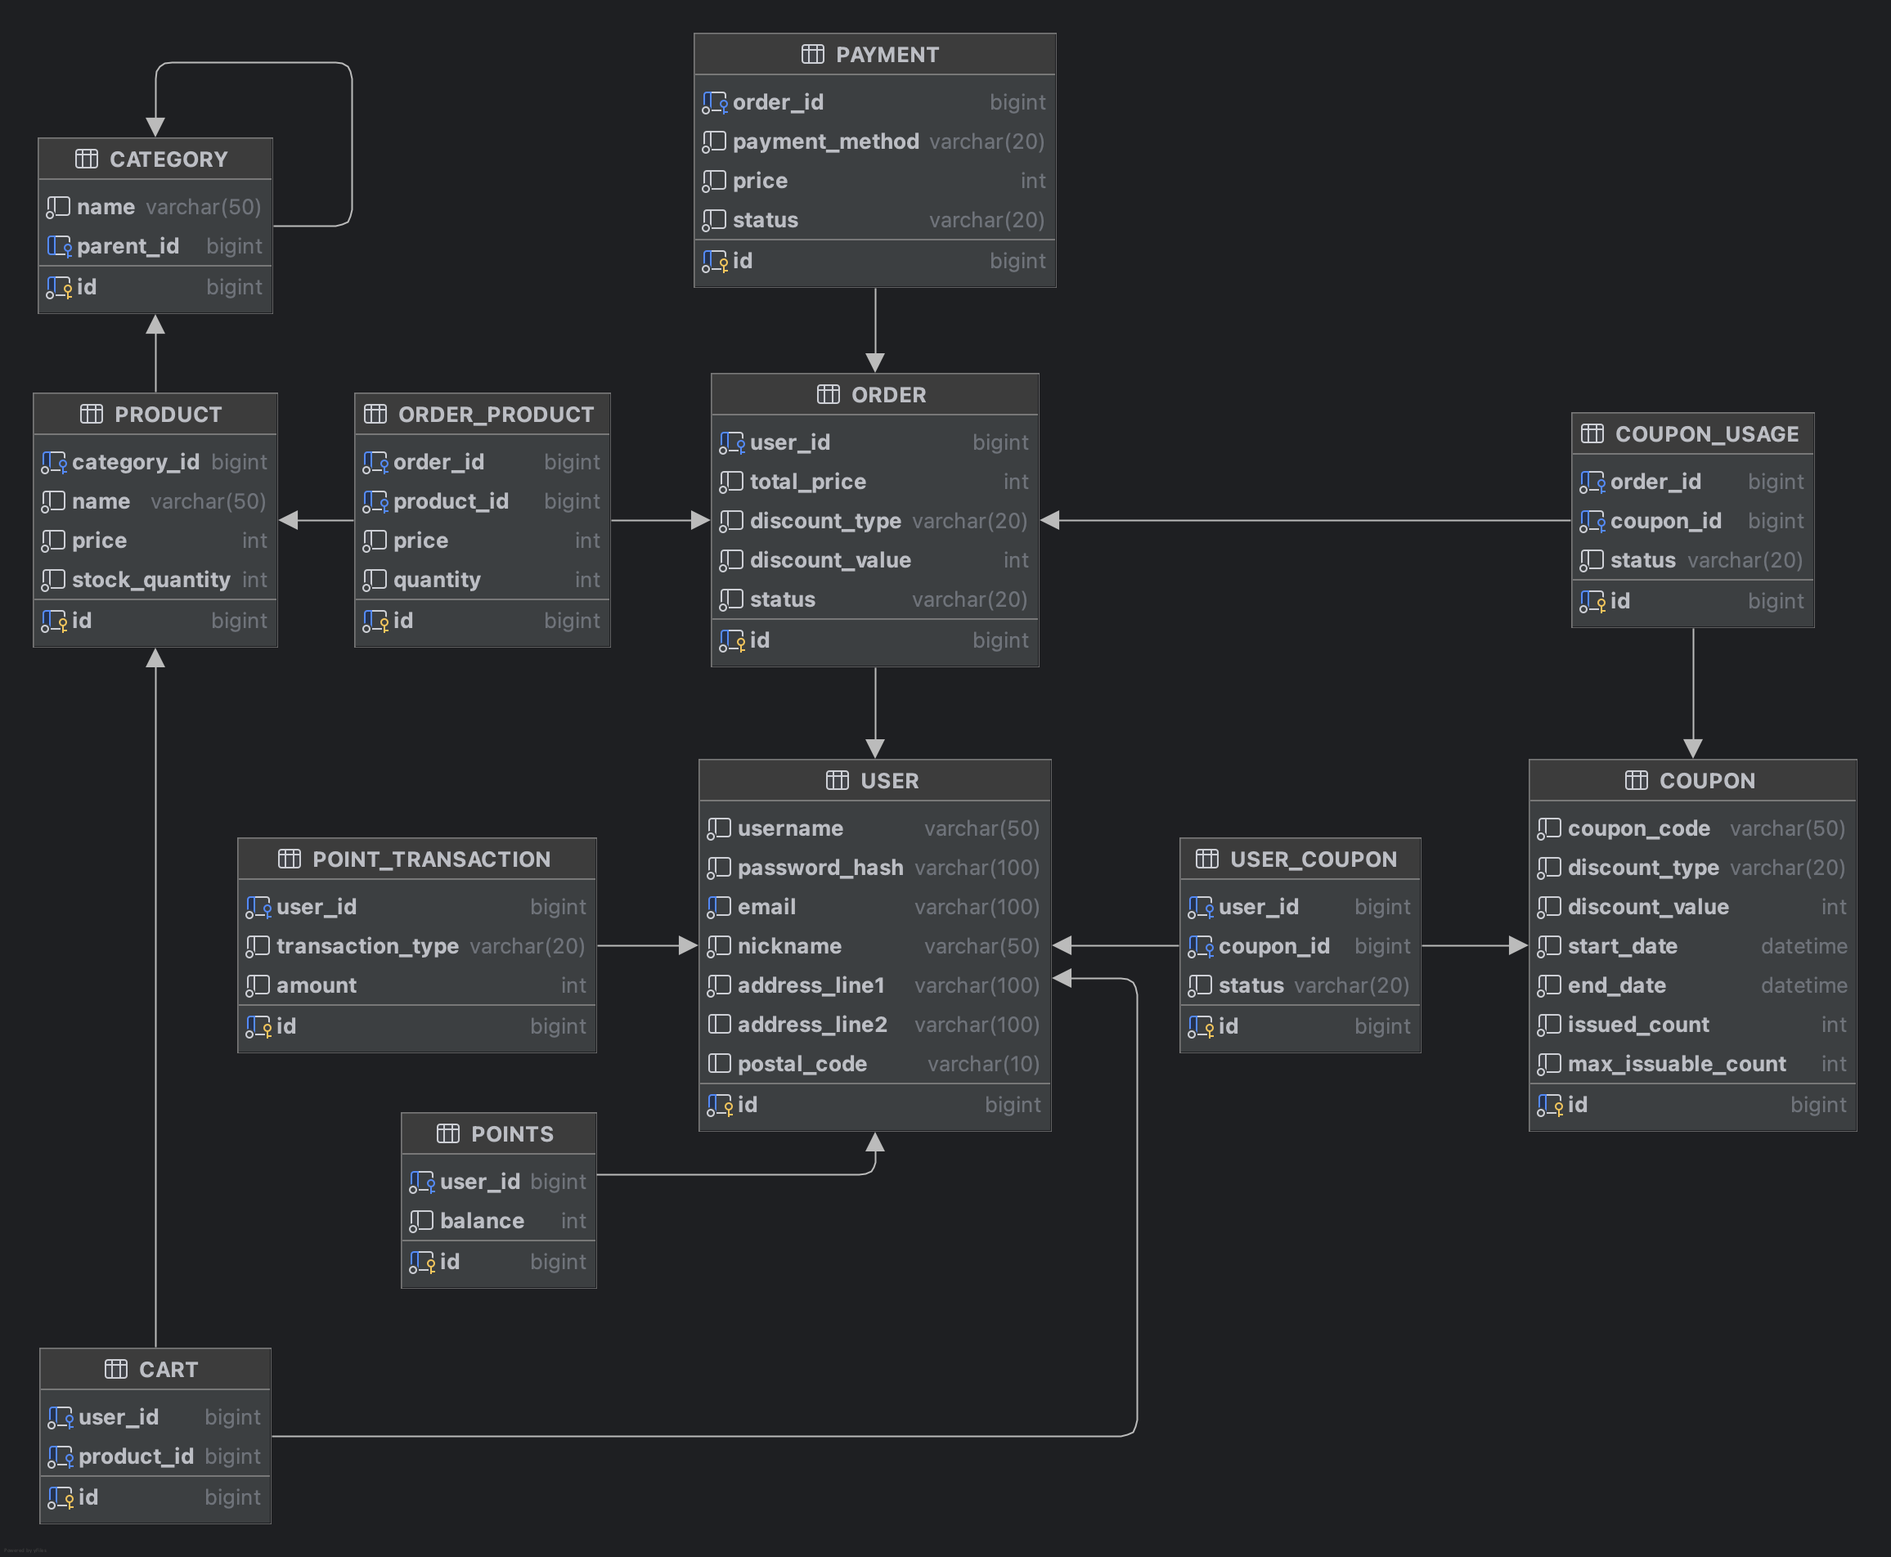
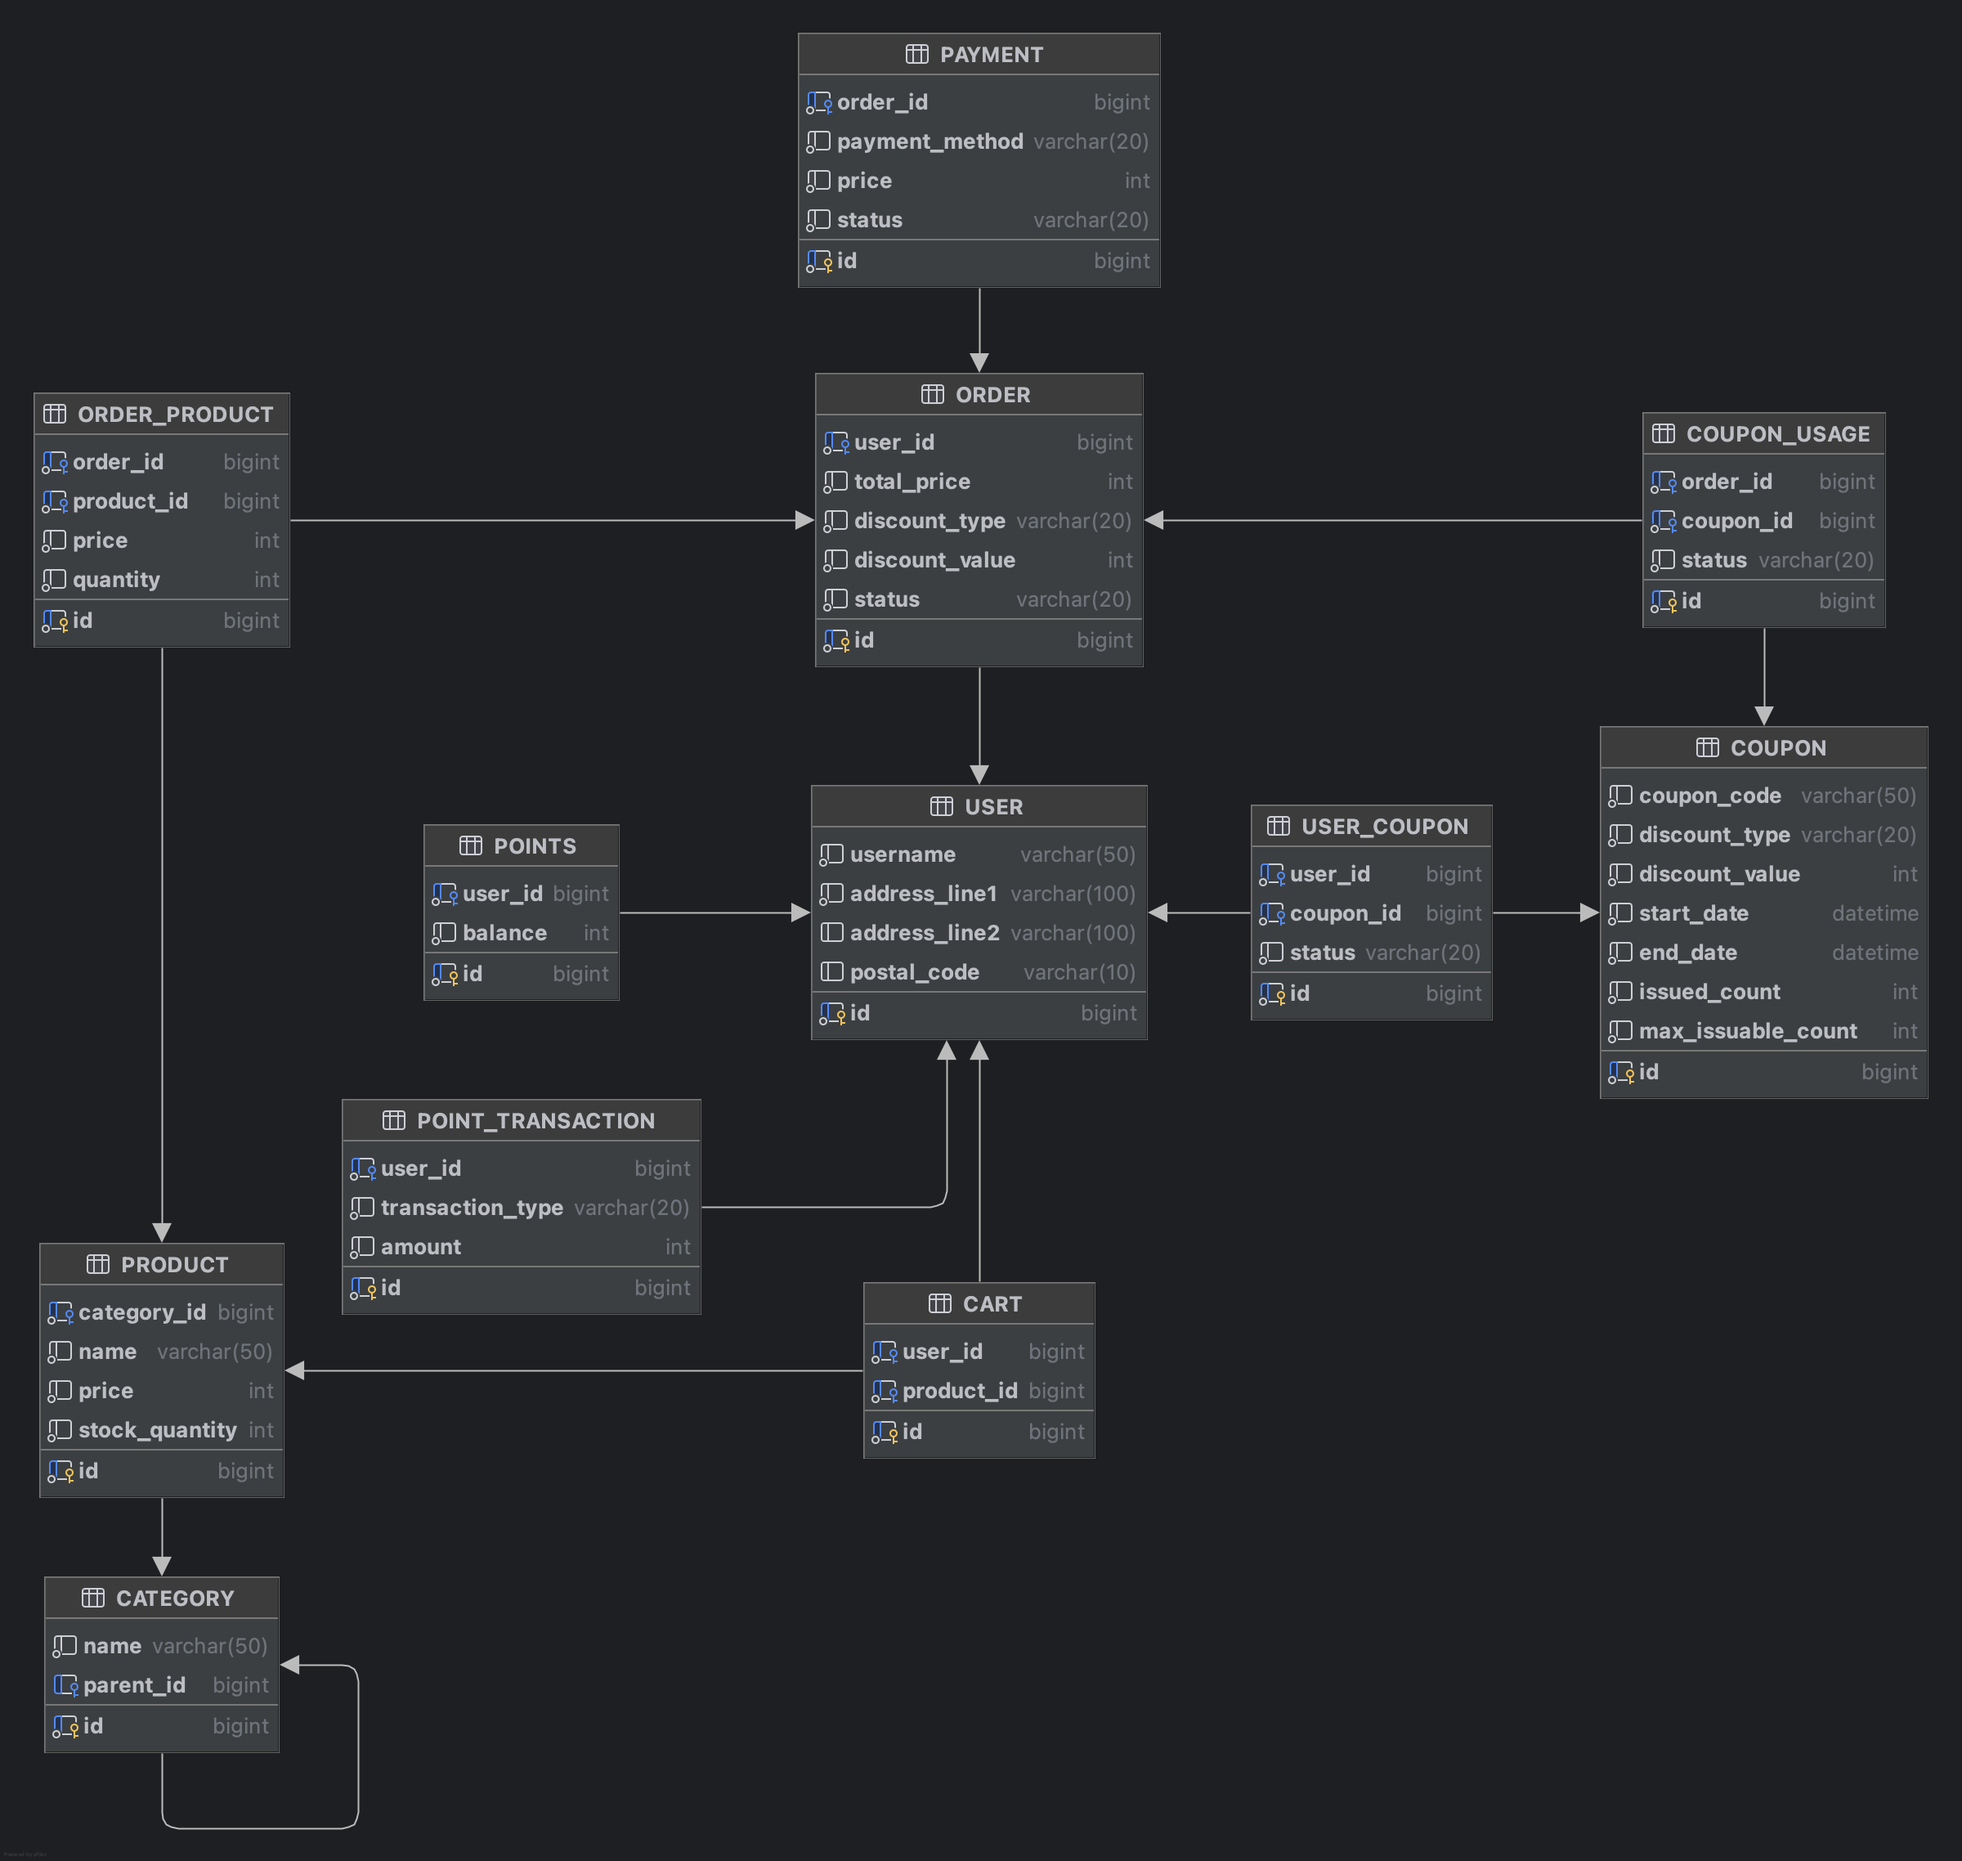
[FEAT] 유저 도메인

diff --git a/src/test/java/kr/hhplus/be/server/unit/domain/user/repository/UserCoreRepositoryTest.java b/src/test/java/kr/hhplus/be/server/unit/domain/user/repository/UserCoreRepositoryTest.java
@@ -1,0 +1,83 @@
+package kr.hhplus.be.server.unit.domain.user.repository;
+
+import kr.hhplus.be.server.domain.user.domain.User;
+import kr.hhplus.be.server.domain.user.exception.UserNotFoundException;
+import kr.hhplus.be.server.domain.user.repository.UserCoreRepository;
+import kr.hhplus.be.server.domain.user.repository.UserJpaRepository;
+import kr.hhplus.be.server.util.fixture.UserFixture;
+import org.junit.jupiter.api.DisplayName;
+import org.junit.jupiter.api.Test;
+import org.junit.jupiter.api.extension.ExtendWith;
+import org.mockito.InjectMocks;
+import org.mockito.Mock;
+import org.mockito.junit.jupiter.MockitoExtension;
+
+import java.util.Optional;
+
+import static org.assertj.core.api.Assertions.assertThat;
+import static org.assertj.core.api.Assertions.assertThatThrownBy;
+import static org.mockito.Mockito.*;
+
+@ExtendWith(MockitoExtension.class)
+public class UserCoreRepositoryTest {
+
+    @Mock
+    private UserJpaRepository userJpaRepository;
+
+    @InjectMocks
+    private UserCoreRepository userCoreRepository;
+
+    @DisplayName("User 저장 - 성공")
+    void saveUser() {
+        // given
+        User user = UserFixture.USER();
+        User expectedUser = new User(1L, user.getUsername(), user.getAddress());
+        when(userJpaRepository.save(user)).thenReturn(expectedUser);
+
+        // when
+        User savedUser = userCoreRepository.save(user);
+
+        // then
+        assertThat(savedUser).isEqualTo(expectedUser);
+        assertThat(savedUser.getId()).isEqualTo(expectedUser.getId());
+        assertThat(savedUser.getUsername()).isEqualTo(expectedUser.getUsername());
+        assertThat(savedUser.getAddressLine1()).isEqualTo(expectedUser.getAddressLine1());
+        assertThat(savedUser.getAddressLine2()).isEqualTo(expectedUser.getAddressLine2());
+        assertThat(savedUser.getPostalCode()).isEqualTo(expectedUser.getPostalCode());
+
+        verify(userJpaRepository, times(1)).save(expectedUser);
+    }
+
+    @DisplayName("User ID 기반 조회 - 성공")
+    @Test
+    void findById() {
+        // given
+        User user = UserFixture.USER();
+        when(userJpaRepository.findById(1L)).thenReturn(Optional.of(user));
+
+        // when
+        User foundUser = userCoreRepository.findById(1L);
+
+        // then
+        assertThat(foundUser).isEqualTo(user);
+        assertThat(foundUser.getUsername()).isEqualTo(user.getUsername());
+        assertThat(foundUser.getAddressLine1()).isEqualTo(user.getAddressLine1());
+        assertThat(foundUser.getAddressLine2()).isEqualTo(user.getAddressLine2());
+        assertThat(foundUser.getPostalCode()).isEqualTo(user.getPostalCode());
+
+        verify(userJpaRepository, times(1)).findById(1L);
+    }
+
+    @DisplayName("User ID 기반 조회 - 실패 - 유저를 찾지 못한 경우 예외 발생")
+    @Test
+    void findById_Fail_NotExist() {
+        // given
+        when(userJpaRepository.findById(1L)).thenReturn(Optional.empty());
+
+        // when & then
+        assertThatThrownBy(() -> userCoreRepository.findById(1L))
+            .isInstanceOf(UserNotFoundException.class);
+
+        verify(userJpaRepository, times(1)).findById(1L);
+    }
+}

diff --git a/src/main/java/kr/hhplus/be/server/domain/user/domain/User.java b/src/main/java/kr/hhplus/be/server/domain/user/domain/User.java
@@ -1,0 +1,47 @@
+package kr.hhplus.be.server.domain.user.domain;
+
+import jakarta.persistence.*;
+import lombok.AccessLevel;
+import lombok.EqualsAndHashCode;
+import lombok.Getter;
+import lombok.NoArgsConstructor;
+
+@Table(name = "user")
+@Entity
+@Getter
+@EqualsAndHashCode(of = "id")
+@NoArgsConstructor(access = AccessLevel.PROTECTED)
+public class User {
+
+    @Id
+    @GeneratedValue(strategy = GenerationType.IDENTITY)
+    private Long id;
+
+    private String username;
+
+    @Embedded
+    private Address address;
+
+    public User(Long id, String username, Address address) {
+        this(username, address);
+        this.id = id;
+    }
+
+    public User(String username, Address address) {
+        this.username = username;
+        this.address = address;
+    }
+
+    public String getAddressLine1() {
+        return address.getAddressLine1();
+    }
+
+    public String getAddressLine2() {
+        return address.getAddressLine2();
+    }
+
+    public String getPostalCode() {
+        return address.getPostalCode();
+    }
+}
+

diff --git a/src/test/java/kr/hhplus/be/server/unit/domain/user/domain/UserTest.java b/src/test/java/kr/hhplus/be/server/unit/domain/user/domain/UserTest.java
@@ -1,0 +1,28 @@
+package kr.hhplus.be.server.unit.domain.user.domain;
+
+import kr.hhplus.be.server.domain.user.domain.Address;
+import kr.hhplus.be.server.domain.user.domain.User;
+import org.junit.jupiter.api.DisplayName;
+import org.junit.jupiter.api.Test;
+
+import static org.assertj.core.api.Assertions.assertThat;
+
+class UserTest {
+
+    @DisplayName("User 생성 - 성공")
+    @Test
+    void createUser() {
+        // given
+        String username = "test_username";
+        Address address = new Address("addressLine1", "addressLine2", "00000");
+
+        // when
+        User user = new User(username, address);
+
+        // then
+        assertThat(user.getUsername()).isEqualTo(username);
+        assertThat(user.getAddressLine1()).isEqualTo(address.getAddressLine1());
+        assertThat(user.getAddressLine2()).isEqualTo(address.getAddressLine2());
+        assertThat(user.getPostalCode()).isEqualTo(address.getPostalCode());
+    }
+}

diff --git a/src/main/java/kr/hhplus/be/server/domain/user/repository/UserCoreRepository.java b/src/main/java/kr/hhplus/be/server/domain/user/repository/UserCoreRepository.java
@@ -1,0 +1,23 @@
+package kr.hhplus.be.server.domain.user.repository;
+
+import kr.hhplus.be.server.domain.user.domain.User;
+import kr.hhplus.be.server.domain.user.exception.UserNotFoundException;
+import lombok.RequiredArgsConstructor;
+import org.springframework.stereotype.Repository;
+
+@Repository
+@RequiredArgsConstructor
+public class UserCoreRepository implements UserRepository {
+
+    private final UserJpaRepository jpaRepository;
+
+    @Override
+    public User findById(long id) {
+        return jpaRepository.findById(id).orElseThrow(UserNotFoundException::new);
+    }
+
+    @Override
+    public User save(User user) {
+        return jpaRepository.save(user);
+    }
+}

diff --git a/src/main/java/kr/hhplus/be/server/domain/user/domain/Address.java b/src/main/java/kr/hhplus/be/server/domain/user/domain/Address.java
@@ -1,0 +1,24 @@
+package kr.hhplus.be.server.domain.user.domain;
+
+import jakarta.persistence.Embeddable;
+import lombok.AccessLevel;
+import lombok.EqualsAndHashCode;
+import lombok.Getter;
+import lombok.NoArgsConstructor;
+
+@Embeddable
+@Getter
+@EqualsAndHashCode
+@NoArgsConstructor(access = AccessLevel.PROTECTED)
+public class Address {
+
+    private String addressLine1;
+    private String addressLine2;
+    private String postalCode;
+
+    public Address(String addressLine1, String addressLine2, String postalCode) {
+        this.addressLine1 = addressLine1;
+        this.addressLine2 = addressLine2;
+        this.postalCode = postalCode;
+    }
+}

diff --git a/src/main/java/kr/hhplus/be/server/config/jpa/JpaConfig.java b/src/main/java/kr/hhplus/be/server/config/jpa/JpaConfig.java
@@ -3,13 +3,11 @@ package kr.hhplus.be.server.config.jpa;
 import org.springframework.context.annotation.Bean;
 import org.springframework.context.annotation.Configuration;
 import org.springframework.data.jpa.repository.config.EnableJpaAuditing;
-import org.springframework.data.jpa.repository.config.EnableJpaRepositories;
 import org.springframework.orm.jpa.JpaTransactionManager;
 import org.springframework.transaction.PlatformTransactionManager;
 
 @Configuration
 @EnableJpaAuditing
-@EnableJpaRepositories
 public class JpaConfig {
 
     @Bean

diff --git a/src/main/java/kr/hhplus/be/server/global/exception/ECommerceException.java b/src/main/java/kr/hhplus/be/server/global/exception/ECommerceException.java
@@ -1,0 +1,15 @@
+package kr.hhplus.be.server.global.exception;
+
+import lombok.Getter;
+import org.springframework.http.HttpStatus;
+
+@Getter
+public class ECommerceException extends RuntimeException {
+
+    private final HttpStatus status;
+
+    public ECommerceException(String message, HttpStatus status) {
+        super(message);
+        this.status = status;
+    }
+}

diff --git a/src/test/java/kr/hhplus/be/server/util/fixture/UserFixture.java b/src/test/java/kr/hhplus/be/server/util/fixture/UserFixture.java
@@ -1,0 +1,11 @@
+package kr.hhplus.be.server.util.fixture;
+
+import kr.hhplus.be.server.domain.user.domain.Address;
+import kr.hhplus.be.server.domain.user.domain.User;
+
+public class UserFixture {
+
+    public static User USER() {
+        return new User("username", new Address("서울특별시 강남구 테헤란로 123", "강남빌딩 10층", "06230"));
+    }
+}

diff --git a/src/main/java/kr/hhplus/be/server/domain/user/exception/UserNotFoundException.java b/src/main/java/kr/hhplus/be/server/domain/user/exception/UserNotFoundException.java
@@ -1,0 +1,12 @@
+package kr.hhplus.be.server.domain.user.exception;
+
+import kr.hhplus.be.server.global.exception.NotFoundException;
+
+public class UserNotFoundException extends NotFoundException {
+
+    private static final String message = "해당 유저를 찾을 수 없습니다.";
+
+    public UserNotFoundException() {
+        super(message);
+    }
+}

diff --git a/src/main/java/kr/hhplus/be/server/global/exception/NotFoundException.java b/src/main/java/kr/hhplus/be/server/global/exception/NotFoundException.java
@@ -1,0 +1,12 @@
+package kr.hhplus.be.server.global.exception;
+
+import org.springframework.http.HttpStatus;
+
+public class NotFoundException extends ECommerceException {
+
+    private static final HttpStatus STATUS = HttpStatus.NOT_FOUND;
+
+    public NotFoundException(String message) {
+        super(message, STATUS);
+    }
+}

diff --git a/src/main/java/kr/hhplus/be/server/domain/user/repository/UserJpaRepository.java b/src/main/java/kr/hhplus/be/server/domain/user/repository/UserJpaRepository.java
@@ -1,0 +1,7 @@
+package kr.hhplus.be.server.domain.user.repository;
+
+import kr.hhplus.be.server.domain.user.domain.User;
+import org.springframework.data.jpa.repository.JpaRepository;
+
+public interface UserJpaRepository extends JpaRepository<User, Long> {
+}

diff --git a/src/test/java/kr/hhplus/be/server/ServerApplicationTests.java b/src/test/java/kr/hhplus/be/server/ServerApplicationTests.java
@@ -2,7 +2,6 @@ package kr.hhplus.be.server;
 
 import org.junit.jupiter.api.Test;
 import org.springframework.boot.test.context.SpringBootTest;
-import org.springframework.context.annotation.Import;
 
 @SpringBootTest
 class ServerApplicationTests {
